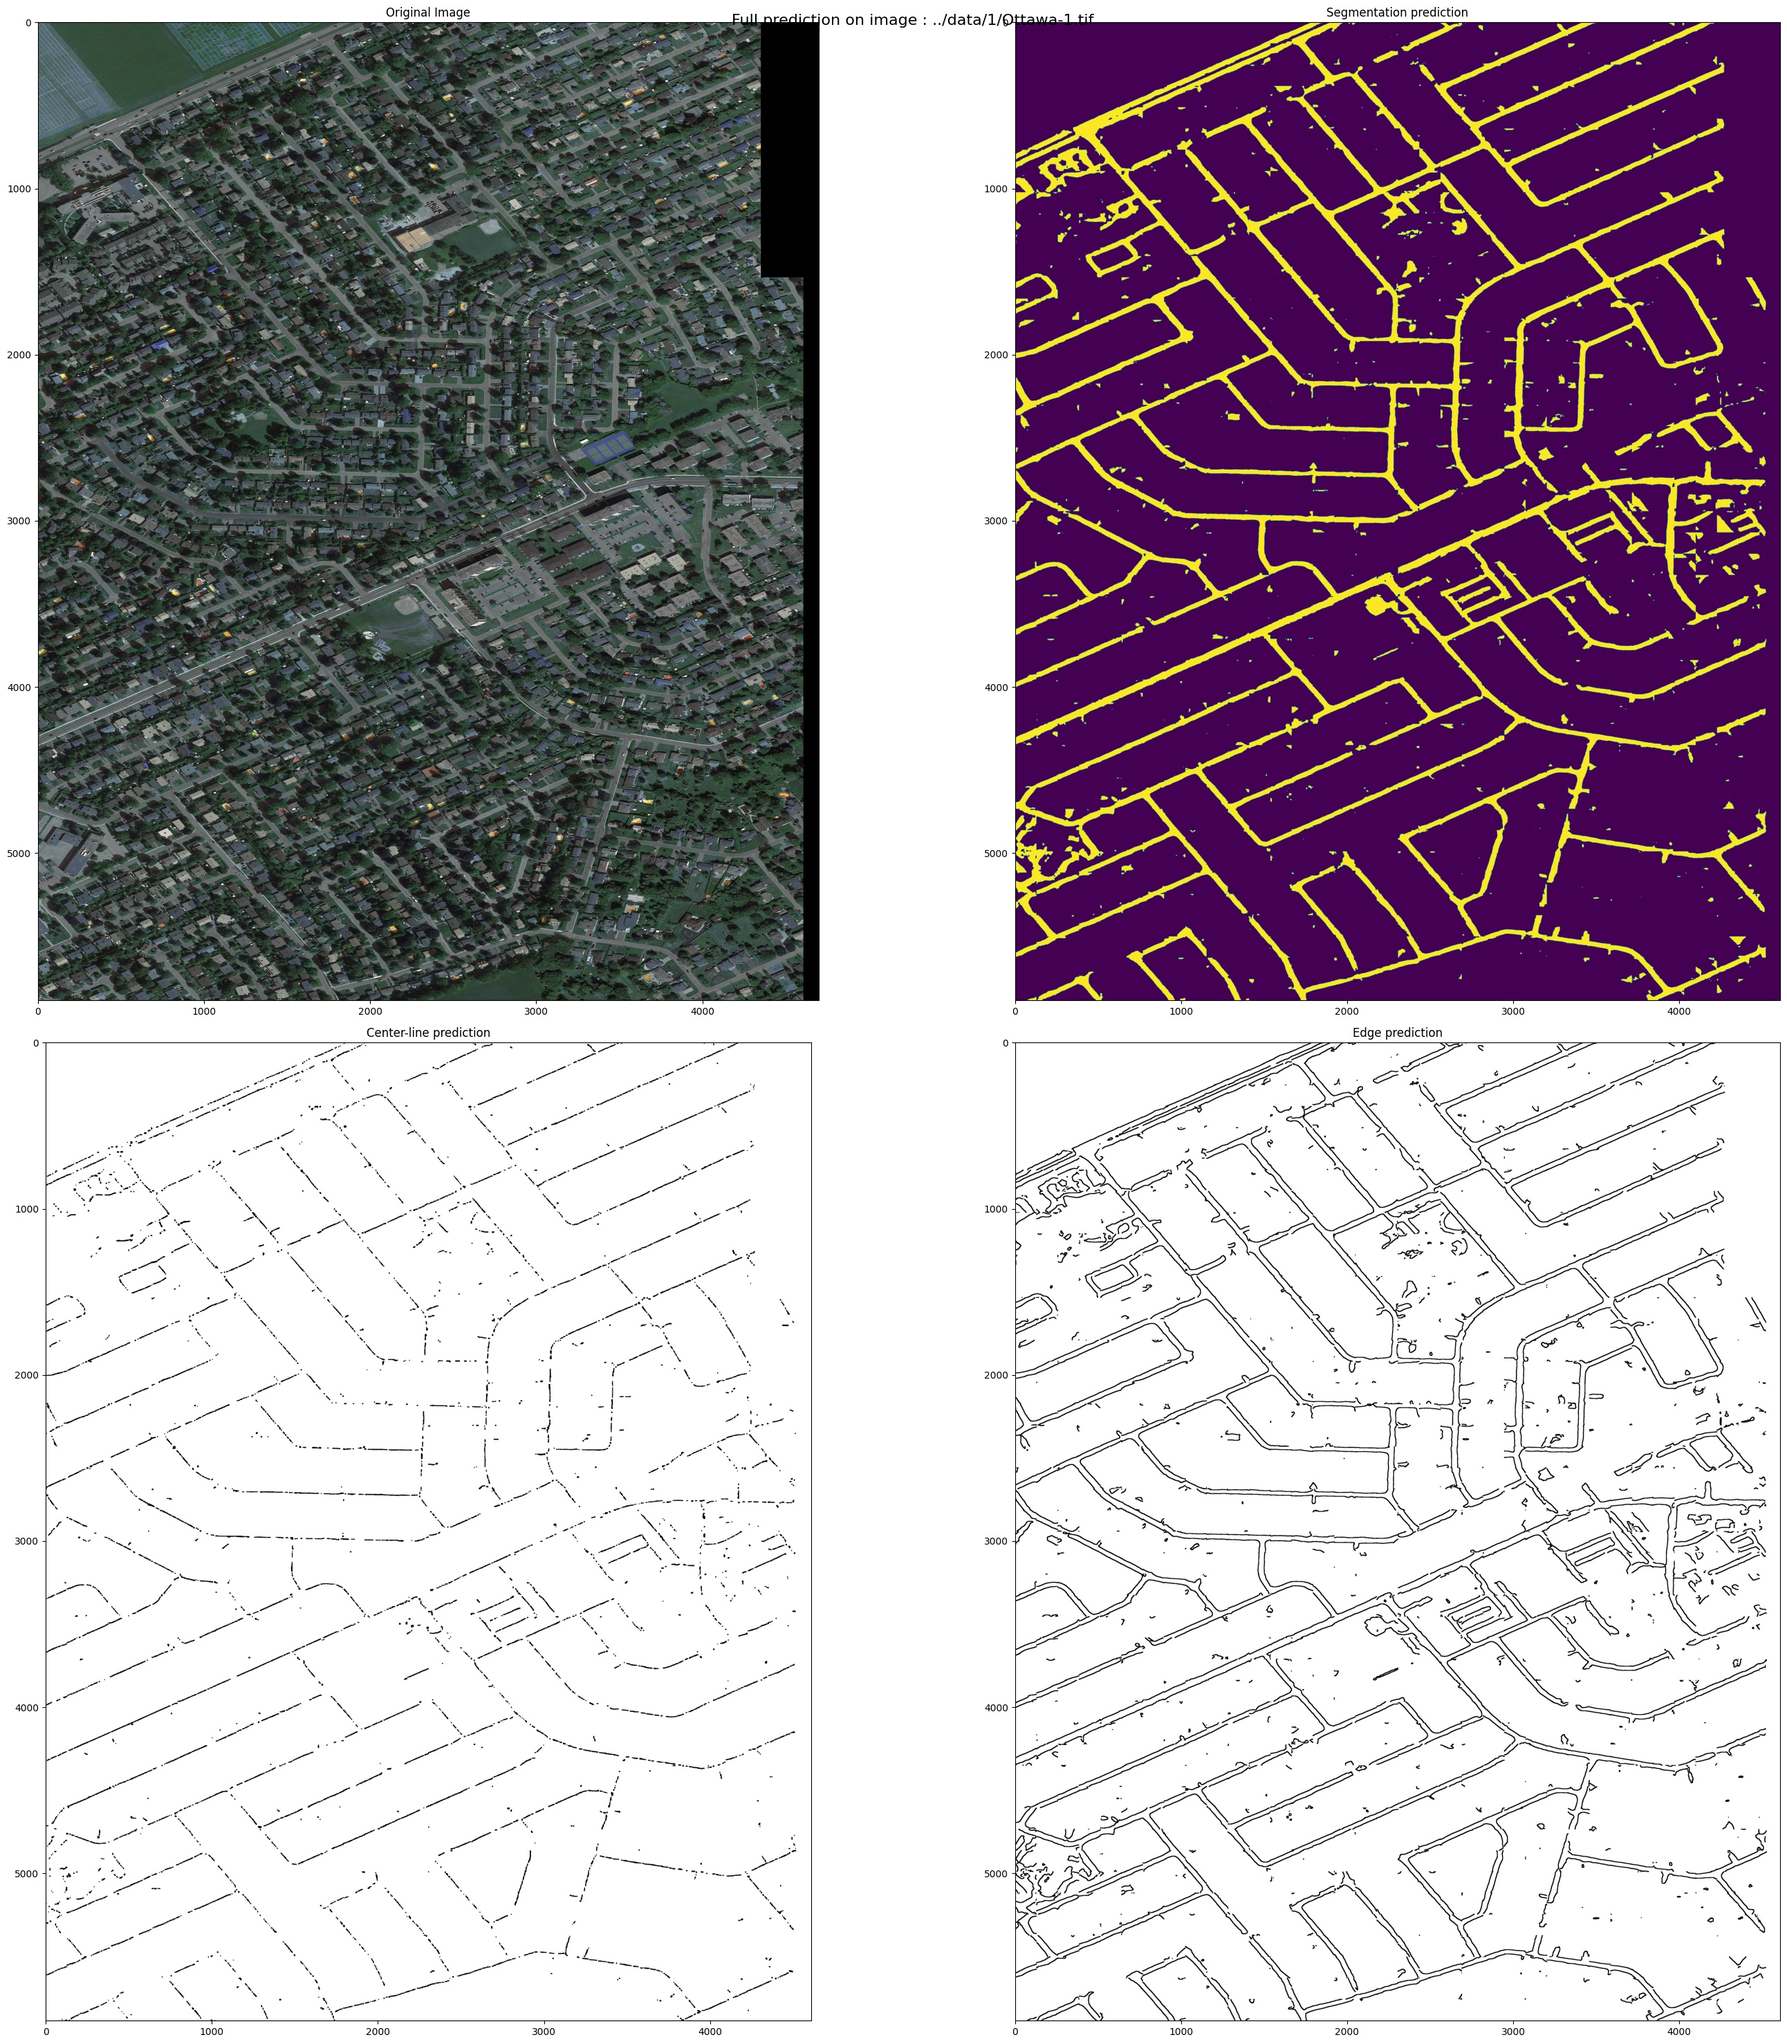
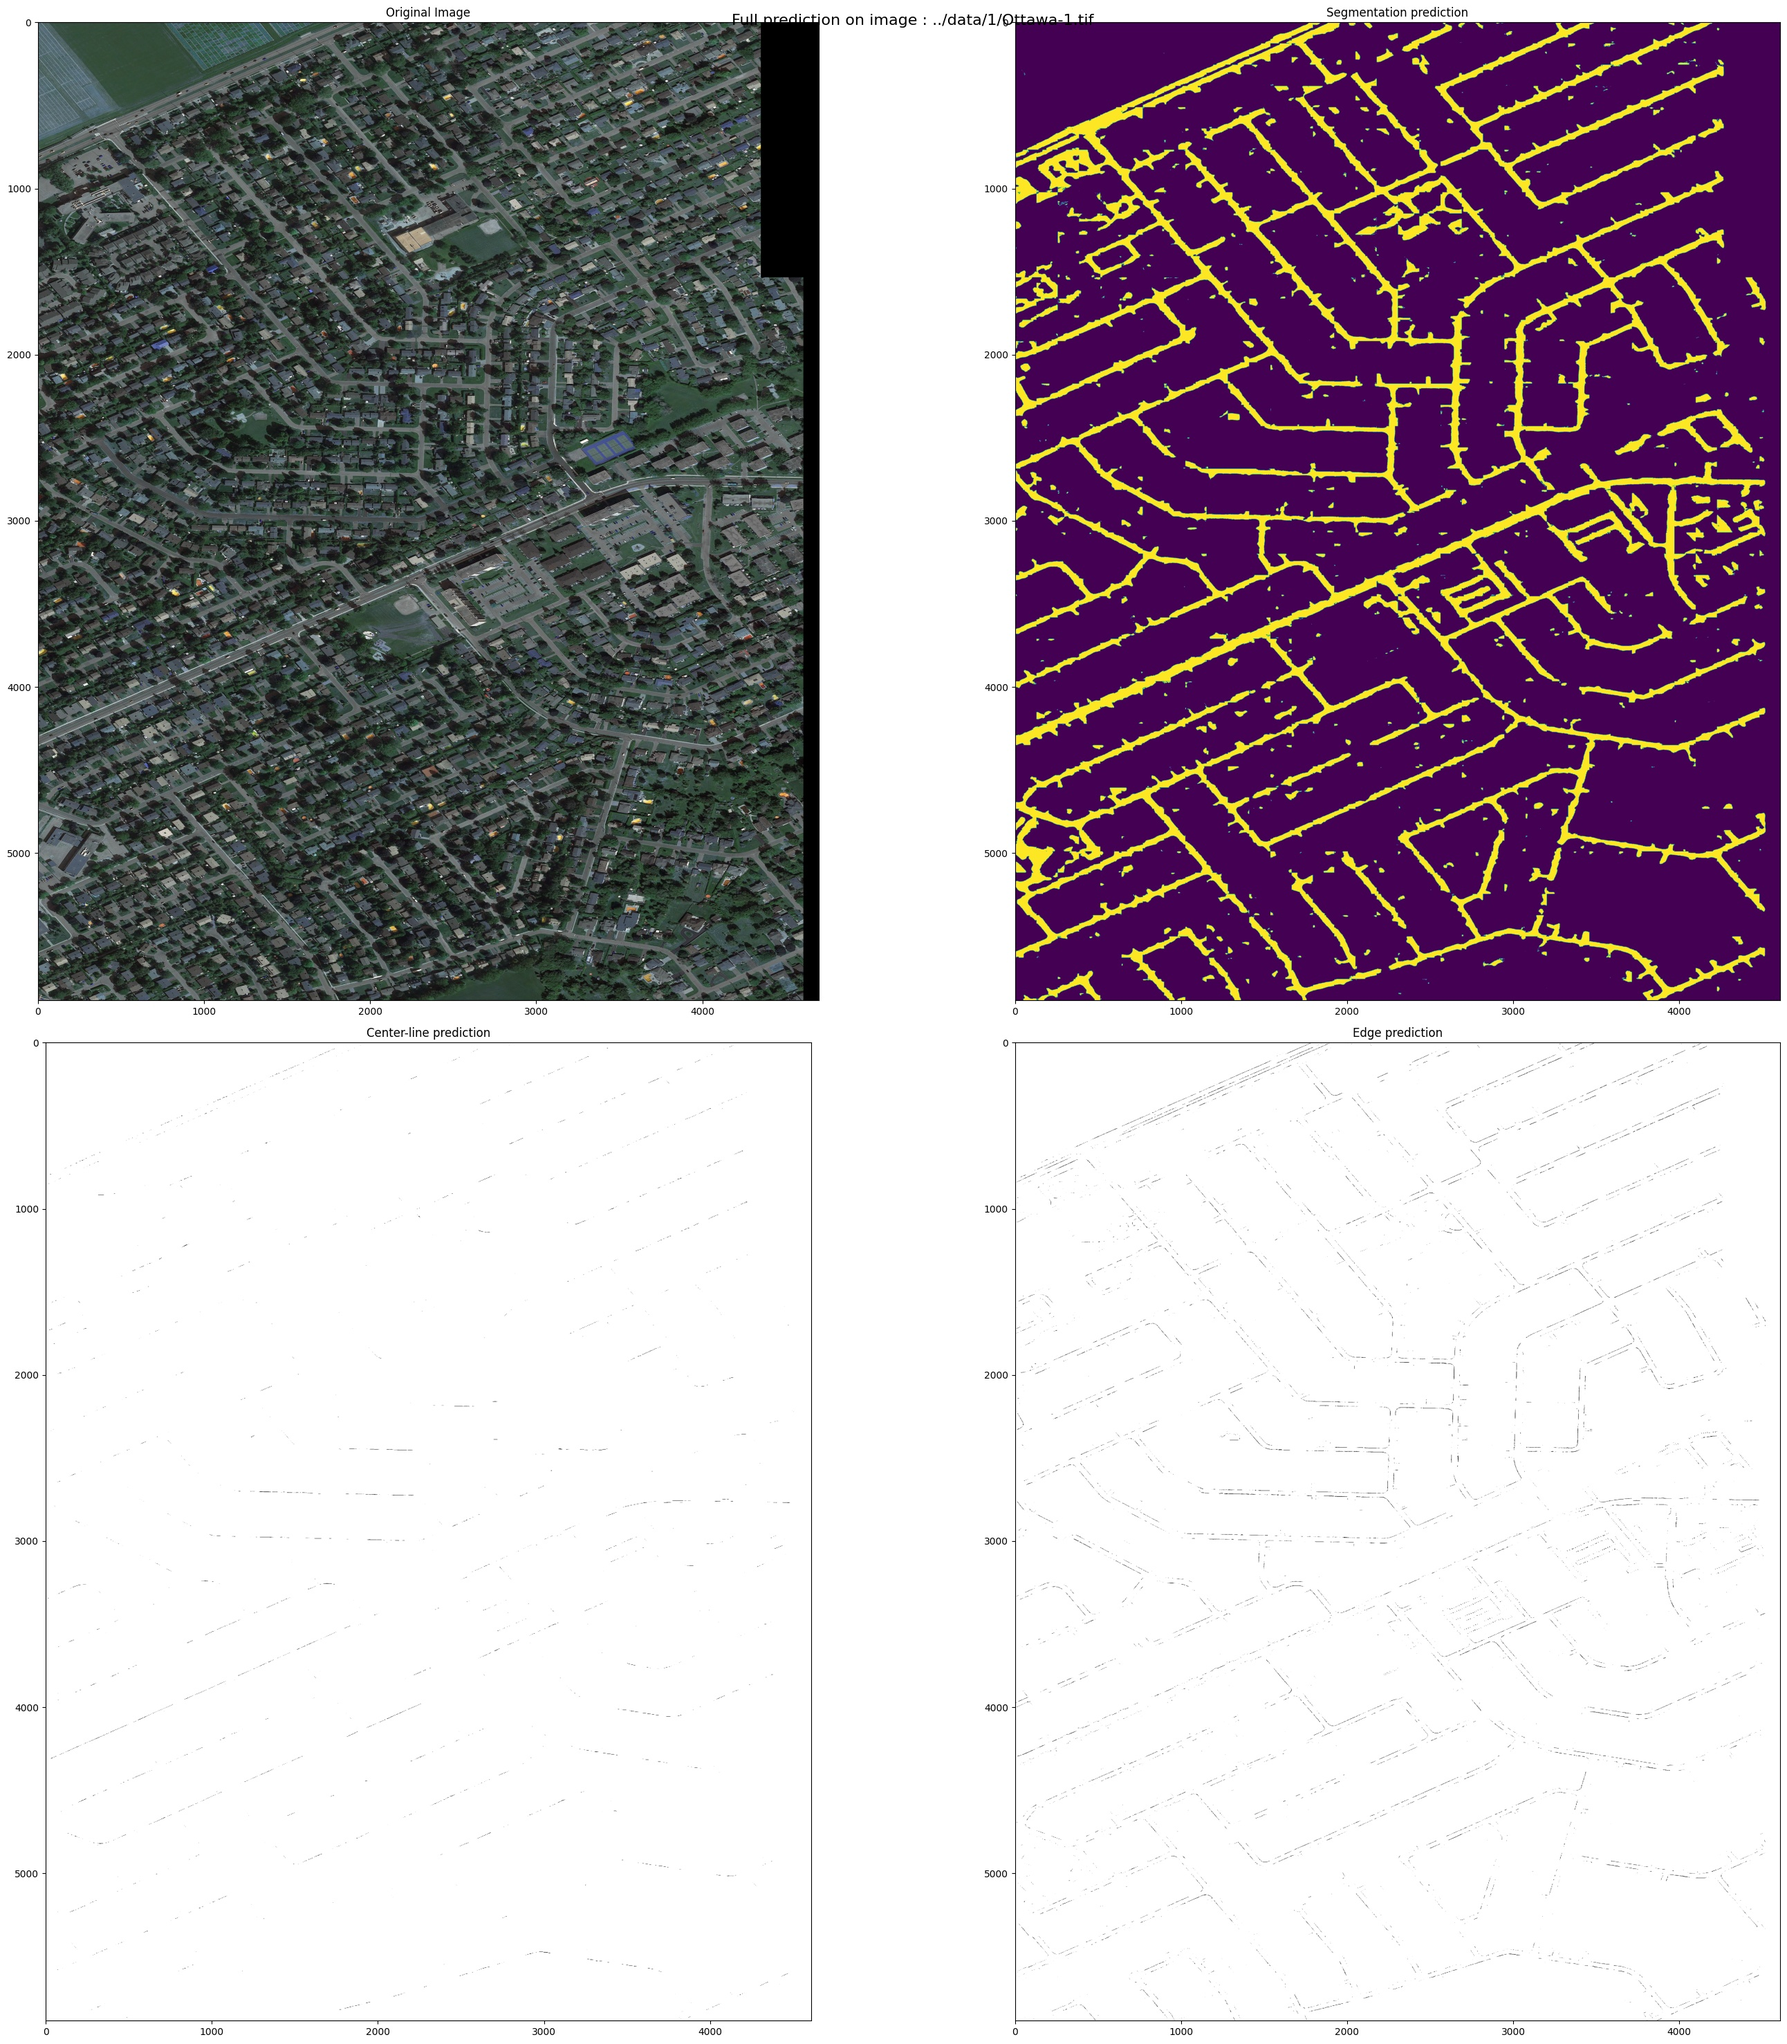
ahihi

diff --git a/ver_4/full_prediction.py b/ver_4/full_prediction.py
@@ -7,7 +7,7 @@ from argparse import ArgumentParser
 
 from roadnet import RoadNet
 from tensorflow.keras.models import Model
-from data_loader import train_images, labels_segments
+# from data_loader import train_images, labels_segments
 
 parser = ArgumentParser()
 parser.add_argument('-m', '--model', required=False, help='Path to the model checkpoint')

diff --git a/ver_4/models_2.py b/ver_4/models_2.py
@@ -22,7 +22,7 @@ from tensorflow.keras.initializers import GlorotNormal
 
 class RoadSurfaceNet(object):
     def __init__(self, input_shape=(128,128,3), name='surface'):
-        lambda_ = 1e-2
+        lambda_ = 1e-1
         self.input_shape=input_shape
         self.name=name
         self.xavier=GlorotNormal()
